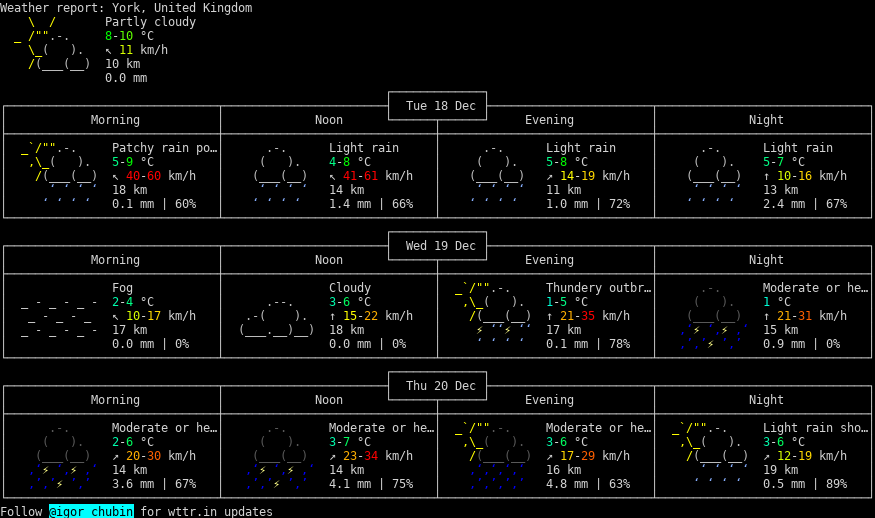
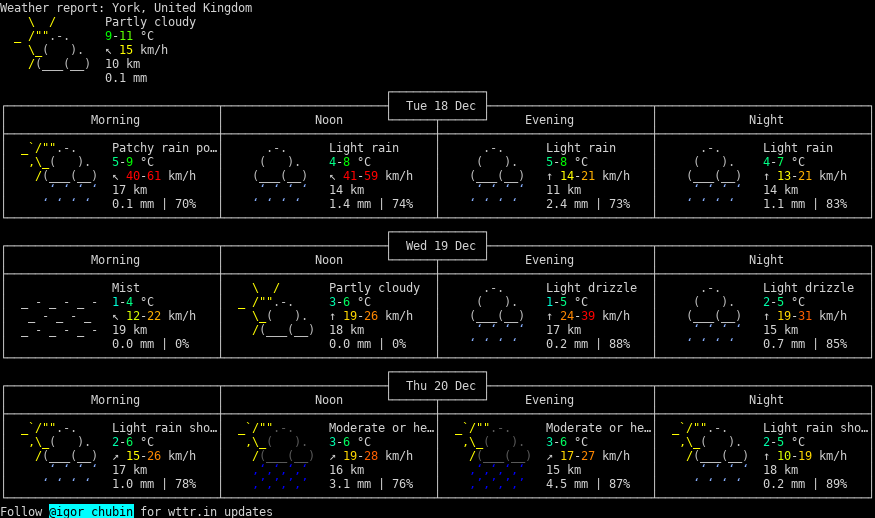
update Today's log:)

diff --git a/README.md b/README.md
@@ -210,3 +210,4 @@ Shell_scripting fun example during Linux OS class with my students
 * 17-12-2018 Mon PM 12:00 GMT   : 1-3°C (Selby, United Kingdom)
 * 17-12-2018 Mon PM  6:00 GMT   : 3-6°C (Selby, United Kingdom)
 * 18-12-2018 Tue AM 12:00 GMT   : 4-7°C (Selby, United Kingdom)
+* 18-12-2018 Tue AM  6:00 GMT   : 5-9°C (Selby, United Kingdom)

diff --git a/weather.md b/weather.md
@@ -795,3 +795,7 @@
 
 ![](img/18-12-2018.png)
 
+18-12-2018
+
+![](img/18-12-2018.png)
+
